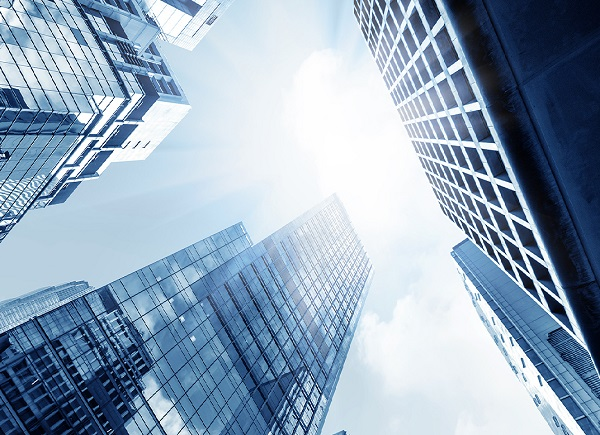
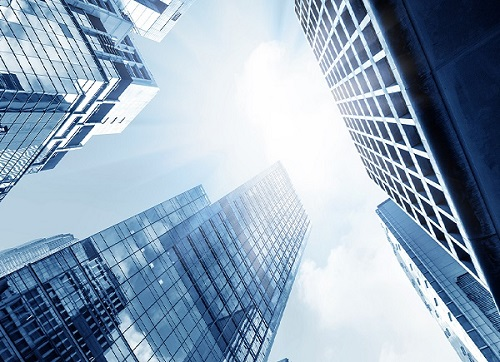
前端--添加文章

diff --git a/src/main/resources/templates/index.html b/src/main/resources/templates/index.html
@@ -65,6 +65,7 @@
     .img_carousel {
         height: 100%;
         width: 100%;
+        background: #999;
     }
 
     .article_content {
@@ -422,7 +423,7 @@
             <div class="swiper-wrapper">
                 <div class="swiper-slide" th:each="item : ${lbt}">
                     <a th:href="@{/news/detail(id=${item.id},menu_id=${item.menu_id})}">
-                        <img th:src="${item.cover}" class="img_carousel">
+                        <img th:src="${item.cover+'?x-oss-process=image/resize,m_pad,h_348,w_800,color_999999/quality,Q_75'}" class="img_carousel">
                     </a>
                 </div>
             </div>
@@ -485,7 +486,7 @@
                     <a th:href="@{/menu/detail(id=10)}">
                         <i class="i_bg"></i>
                         <img src="/images/d3.jpg" class="product-list-img">
-                        <p class="product-description">部分成员</p>
+                        <p class="product-description">会员风采</p>
                     </a>
                 </div>
                 <div class="clear"></div>
